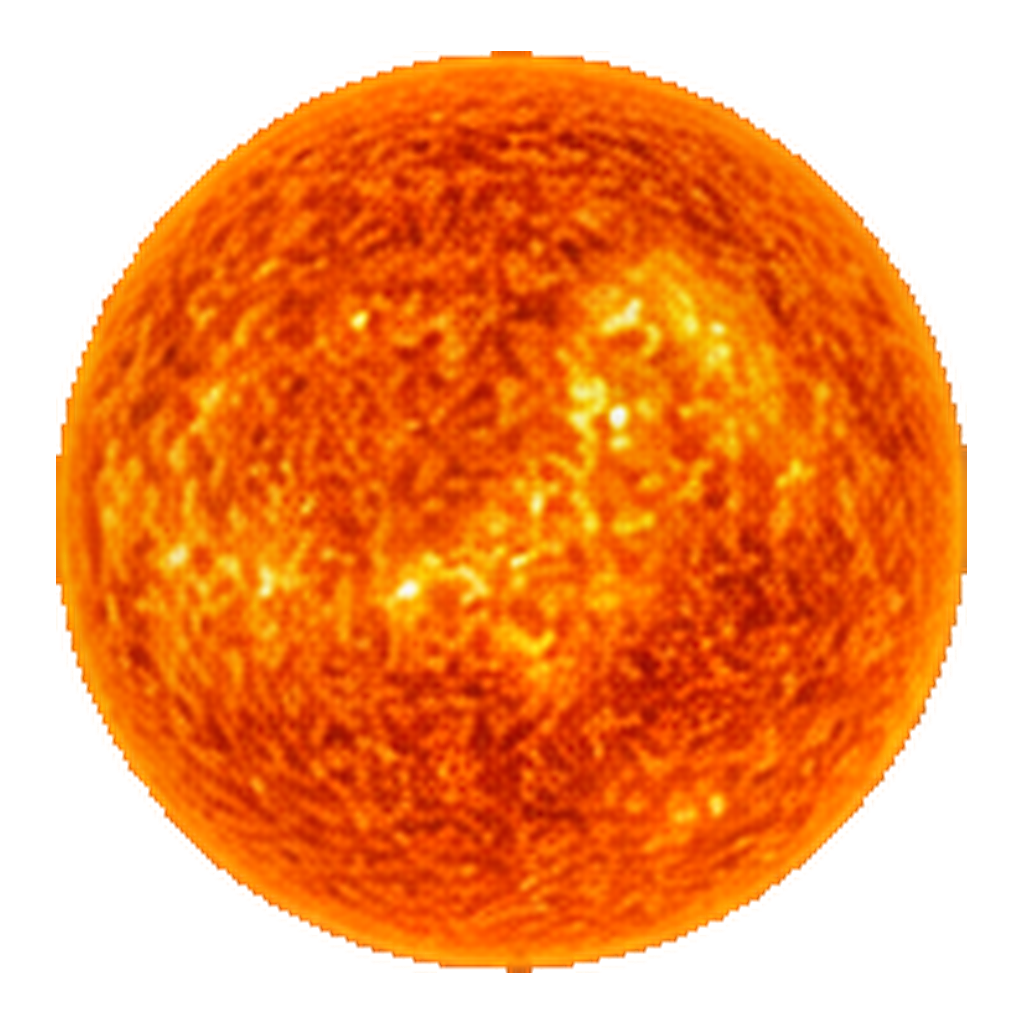
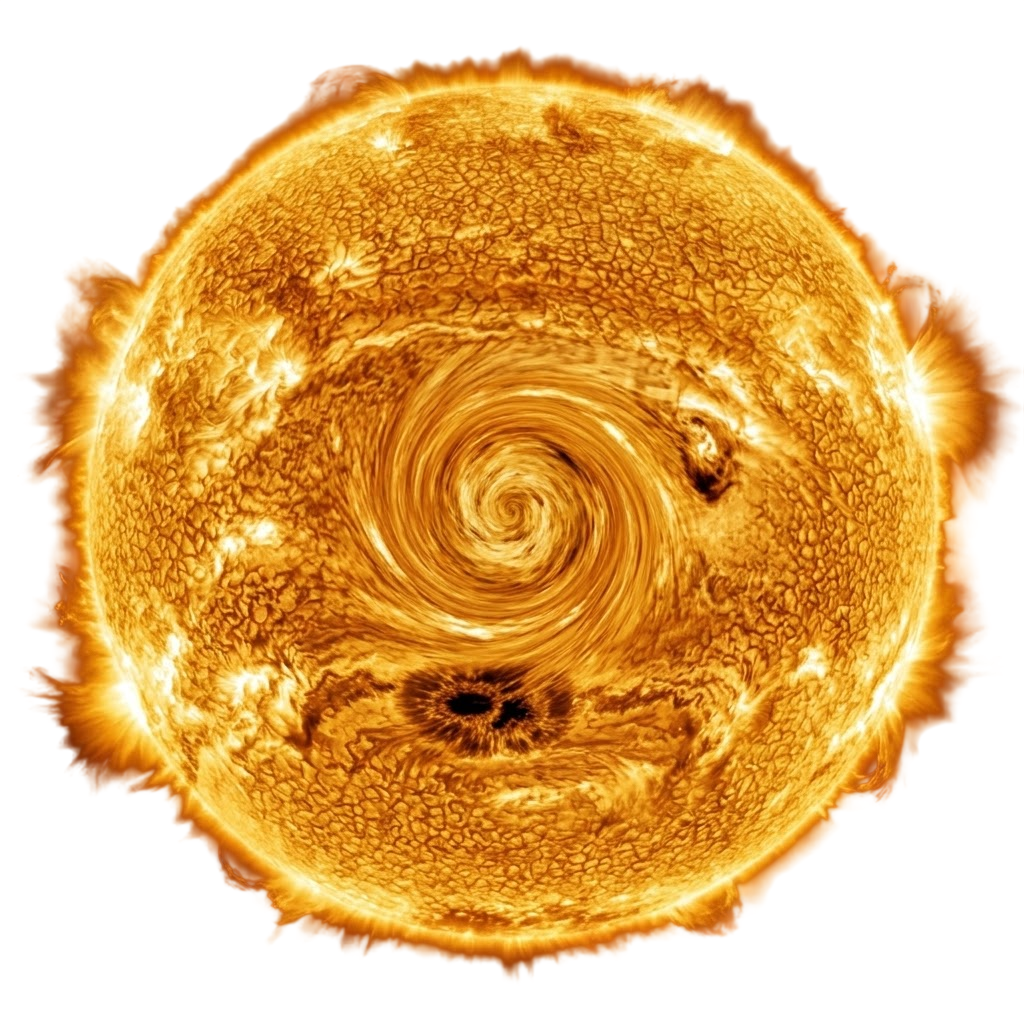
v0.0.5 physics UX updates

diff --git a/app/app.js b/app/app.js
@@ -518,32 +518,6 @@
     if (sel) setText('setTargetBtn', snap.targetId === sel.id ? 'TARGETED ✓' : 'SET TARGET');
     else setText('setTargetBtn', 'SET TARGET');
     syncNodeForm(snap);
-const burnBox = $('burnProgress');
-    if (burnBox) {
-      // Show whenever an auto-burn is armed: COAST (countdown), ALIGN (slew),
-      // BURN (thrust) so the bar is visible for the whole maneuver, not last 15s.
-      const armed = !!autoBurn;
-      burnBox.classList.toggle('hidden', !armed);
-      if (armed) {
-        const bnode = snap.nodes.find(n => n.id === autoBurn.nodeId);
-        const btotal = bnode ? bnode.totalDv : 0;
-        const bdone = Math.min(autoBurn.delivered || 0, btotal);
-        const pct = btotal > 0 ? Math.max(0, Math.min(100, bdone / btotal * 100)) : 0;
-        const fill = $('burnProgressFill'), label = $('burnProgressText');
-        if (fill) fill.style.width = pct.toFixed(1) + '%';
-        if (label) {
-          if (autoBurn.phase === 'BURN') {
-            const accel = F ? F.thrust / Math.max(F.s.m, 1) : 0;
-            const left = btotal > 0 ? Math.max(0, btotal - bdone) / Math.max(accel, 1e-9) : 0;
-            label.textContent = `BURN ${pct.toFixed(0)}% · T−${ExolineNav.fmtDur(left)} LEFT`;
-          } else if (autoBurn.phase === 'ALIGN') {
-            label.textContent = `ALIGNING · T−${ExolineNav.fmtDur(Math.max(0, (autoBurn.fireAt - +date) / 1000))}`;
-          } else {
-            label.textContent = `COASTING · BURN IN ${ExolineNav.fmtDur(Math.max(0, (autoBurn.fireAt - +date) / 1000))}`;
-          }
-        }
-      }
-    }
   }
   function syncNodeForm(snap) {
     const node = snap.nodes.find(n => n.id === activeNodeId) || snap.nodes[0];
@@ -593,7 +567,9 @@ function startAutoBurn() {
     const epoch = node.epoch || (+date + node.t * 1000);
     autoBurn = { nodeId: node.id, nodeTime: node.t, fireAt: epoch - burnTime * 500, delivered: 0, phase: 'COAST', initialMass: 0, estBurn: burnTime, burnSimStart: 0, appliedRate: 0 };
     $('throttle').disabled = true; $('launchBtn').disabled = true;
-    setWarp(1);
+    // Warp is KEPT while coasting to the node (so you can time-warp toward the
+    // burn instead of idling at 1x). It drops to 1x only when the align window
+    // opens, because a multi-second burn cannot be resolved at high warp.
     $('navExecute').textContent = 'CANCEL AUTO';
     showToast(`AUTO BURN ARMED · T+ ${ExolineNav.fmtDur(node.t)}`);
   }
@@ -604,9 +580,9 @@ function startAutoBurn() {
     if (!autoBurn) return;
     const node = ExolineNav.getNodes().find(n => n.id === autoBurn.nodeId);
     if (!node || F.s.crashed || (!F.infiniteFuel && F.s.propellant <= 0)) { cancelAutoBurn('AUTO BURN ABORTED'); return; }
-    if (autoBurn.phase === 'COAST' && +date >= autoBurn.fireAt - 15000) { autoBurn.phase = 'ALIGN'; }
+    if (autoBurn.phase === 'COAST' && +date >= autoBurn.fireAt - 15000) { autoBurn.phase = 'ALIGN'; if (warpIndex !== 0) setWarp(0); }
     if (autoBurn.phase !== 'ALIGN' && autoBurn.phase !== 'BURN') return;
-    if (warpIndex !== 0) setWarp(0); // burns always execute at 1x: warp + burns never mix
+    // No forced 1x here: warp is only dropped when entering ALIGN above.
     // Steer along the FROZEN inertial burn vector solved at node edit time:
     // zero per-frame propagation, zero jitter.
     const burn = ExolineNav.calculateBurn(node);
@@ -754,27 +730,24 @@ function startAutoBurn() {
   function drawBurnProgress() {
     const st = burnProgressState();
     if (!st) return;
-    const w = Math.min(320, innerWidth * 0.5), h = 26;
-    const x = Math.round(innerWidth / 2 - w / 2), y = Math.round(innerHeight - 190);
+    // Top-centre, directly below the SOI/date strip.
+    const w = Math.min(400, innerWidth * 0.62);
+    const x = Math.round(innerWidth / 2 - w / 2), y = 64;
     X.save();
-    X.fillStyle = 'rgba(6,14,24,.86)';
-    X.fillRect(x - 8, y - 8, w + 16, h + 16);
-    X.strokeStyle = 'rgba(120,200,230,.35)';
-    X.lineWidth = 1;
-    X.strokeRect(x - 8.5, y - 8.5, w + 17, h + 17);
-    X.fillStyle = 'rgba(120,180,200,.18)';
-    X.fillRect(x, y, w, 8);
+    X.fillStyle = 'rgba(120,180,200,.22)';
+    X.fillRect(x, y, w, 5);
     X.fillStyle = '#78e5ff';
-    X.fillRect(x, y, w * st.pct / 100, 8);
+    X.fillRect(x, y, w * st.pct / 100, 5);
+    // Text is suppressed while the engine is actually burning: the bar alone
+    // conveys progress, and the HUD throttle/velocity already read live state.
+    if (st.phase === 'BURN') { X.restore(); return; }
     X.font = '700 11px sans-serif';
     X.fillStyle = '#e8f8ff';
     X.textBaseline = 'top';
-    const txt = st.phase === 'BURN'
-      ? `AUTO BURN  ${st.pct.toFixed(0)}%  ·  T-${ExolineNav.fmtDur(Math.max(0, st.total - st.done) / Math.max(st.accel, 1e-9))} LEFT`
-      : st.phase === 'ALIGN'
-        ? `ALIGNING  ·  T-${ExolineNav.fmtDur(Math.max(0, (st.fireAt - +date) / 1000))}`
-        : `COASTING TO NODE  ·  BURN IN ${ExolineNav.fmtDur(Math.max(0, (st.fireAt - +date) / 1000))}`;
-    X.fillText(txt, x, y + 12);
+    const txt = st.phase === 'ALIGN'
+      ? `ALIGNING · T−${ExolineNav.fmtDur(Math.max(0, (st.fireAt - +date) / 1000))}`
+      : `COASTING TO NODE · BURN IN ${ExolineNav.fmtDur(Math.max(0, (st.fireAt - +date) / 1000))}`;
+    X.fillText(txt, x, y + 9);
     X.restore();
   }
   function inspect(body) { sel = body; craftSelected = false; lock = 'body'; $('detailPanel').classList.remove('hidden'); $('detailName').textContent = body.name; $('detailKicker').textContent = 'CELESTIAL BODY'; $('detailSub').textContent = body.parent ? `MOON OF ${body.parent.toUpperCase()}` : 'SOL SYSTEM'; $('detailType').textContent = body.type; $('detailOrbit').textContent = body.kind === 'major_moon' ? 'LOCAL ORBIT' : 'HELIOCENTRIC'; $('detailPeriod').textContent = 'LIVE STATE'; $('detailSeed').textContent = body.seed || '—'; $('detailNote').textContent = 'Orbital position and rendered orbit use the same propagated Keplerian state.'; if (minerals) { const data = minerals[body.name]; const box = $('minerals'); if (!data) { box.textContent = 'No mineral profile defined for this body.'; return; } box.textContent = ''; for (const [name, frac] of Object.entries(data).sort((a, b) => b[1] - a[1])) { const row = document.createElement('div'); row.className = 'mineral-row'; const pct = (frac * 100).toFixed(1); row.innerHTML = `<span class="name">${name}</span><span class="value">${pct}%</span><div class="mineral-bar"><i style="width:${pct}%"></i></div>`; box.appendChild(row); } } cam.o = { x: S[body.id].x, y: S[body.id].y }; cam.k = Math.max(cam.k, 24 / P.bodies[body.id].radius_m); }

diff --git a/app/index.html b/app/index.html
@@ -4,7 +4,7 @@
   <meta charset="utf-8">
   <meta name="viewport" content="width=device-width,initial-scale=1,viewport-fit=cover,user-scalable=no">
   <meta name="theme-color" content="#06090d">
-  <title>EXOLINE v0.0.4 — Solar System</title>
+  <title>EXOLINE v0.0.5 — Solar System</title>
   <link rel="stylesheet" href="style.css?v=5">
 </head>
 <body>
@@ -131,7 +131,7 @@
         <div class="nav-grid"><div><span>SOI</span><b id="navSoi">—</b></div><div><span>TARGET</span><b id="navTarget">—</b></div><div><span>DIST</span><b id="navDist">—</b></div><div><span>REL VEL</span><b id="navRelVel">—</b></div><div><span>APO</span><b id="navApo">—</b></div><div><span>PERI</span><b id="navPeri">—</b></div><div><span>ECC</span><b id="navEcc">—</b></div><div><span>VS REF</span><b id="navSpeed">—</b></div></div>
         <div class="nav-extra hidden" id="navExtra"><div class="nav-grid"><div><span>RADIAL</span><b id="navRadial">—</b></div><div><span>CLOSING</span><b id="navClosing">—</b></div><div><span>TCA</span><b id="navTca">—</b></div><div><span>MISS</span><b id="navMiss">—</b></div><div><span>PERIOD</span><b id="navPeriod">—</b></div><div><span>V ESC</span><b id="navVEsc">—</b></div><div><span>ENERGY</span><b id="navEnergy">—</b></div><div><span>INCL</span><b id="navInc">—</b></div></div><div class="nav-sub">TRANSFER · <b id="navTransferTitle">—</b></div><div class="nav-grid"><div><span>DEP Δv</span><b id="navTransferDep">—</b></div><div><span>ARR Δv</span><b id="navTransferArr">—</b></div><div><span>XFER TIME</span><b id="navTransferTime">—</b></div><div><span>Δv TOTAL</span><b id="navDvTotal">—</b></div></div></div>
         <div class="nav-actions"><button id="navDetailBtn">DETAIL</button><button id="navNodeBtn">+ NODE</button><button id="navClearTarget">CLEAR</button></div><div class="nav-actions"><button id="navFocusCraft">FOCUS</button><button id="navFocusTarget">FOCUS TGT</button><button id="navFit">FIT</button></div>
-        <div class="nav-node hidden" id="navNode"><div class="nav-node-row"><span>MANEUVER</span><div class="nav-step"><button id="navTimeMinus">−</button><b id="navNodeTime">T+0s</b><button id="navTimePlus">+</button></div></div><label class="nav-field"><span>PRO</span><input id="navNodePro" type="number" step="1" value="0"><em>m/s</em></label><label class="nav-field"><span>RAD</span><input id="navNodeRad" type="number" step="1" value="0"><em>m/s</em></label><label class="nav-field"><span>NOR</span><input id="navNodeNor" type="number" step="1" value="0"><em>m/s</em></label><div class="nav-node-row"><span>TOTAL</span><b id="navNodeTotal">0 m/s</b></div><div class="nav-key-help">RED DOT SELECTS NODE · WHITE DOTTED = POST-BURN</div><div id="burnProgress" class="hidden" style="margin:6px 0 2px"><div style="height:6px;border-radius:3px;background:rgba(120,180,200,.18);overflow:hidden"><i id="burnProgressFill" style="display:block;height:100%;width:0%;background:linear-gradient(90deg,#53ddff,#78e5ff);border-radius:3px"></i></div><b id="burnProgressText" style="display:block;margin-top:3px;font-size:10px;letter-spacing:.08em;color:#cfeefc">—</b></div><div class="nav-actions"><button id="navExecute" class="nav-exec">AUTO BURN</button><button id="navNodeDelete">DELETE</button></div></div>
+        <div class="nav-node hidden" id="navNode"><div class="nav-node-row"><span>MANEUVER</span><div class="nav-step"><button id="navTimeMinus">−</button><b id="navNodeTime">T+0s</b><button id="navTimePlus">+</button></div></div><label class="nav-field"><span>PRO</span><input id="navNodePro" type="number" step="1" value="0"><em>m/s</em></label><label class="nav-field"><span>RAD</span><input id="navNodeRad" type="number" step="1" value="0"><em>m/s</em></label><label class="nav-field"><span>NOR</span><input id="navNodeNor" type="number" step="1" value="0"><em>m/s</em></label><div class="nav-node-row"><span>TOTAL</span><b id="navNodeTotal">0 m/s</b></div><div class="nav-key-help">RED DOT SELECTS NODE · WHITE DOTTED = POST-BURN</div><div class="nav-actions"><button id="navExecute" class="nav-exec">AUTO BURN</button><button id="navNodeDelete">DELETE</button></div></div>
       </div>
     </aside>
     <aside class="flight-hud" id="flightHud">
